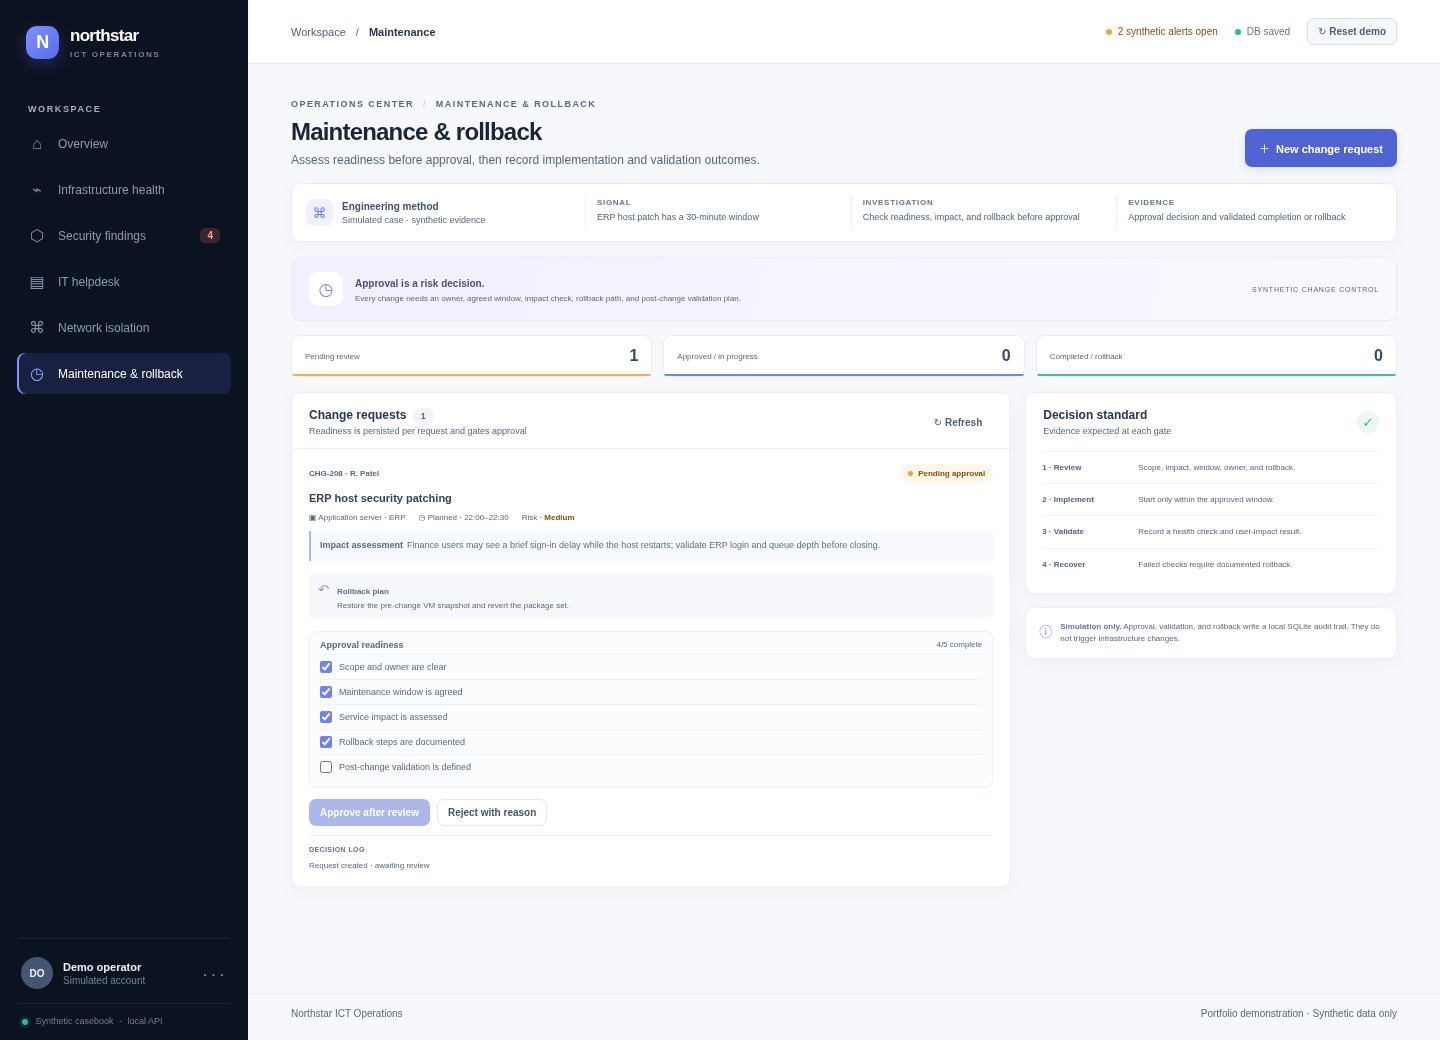
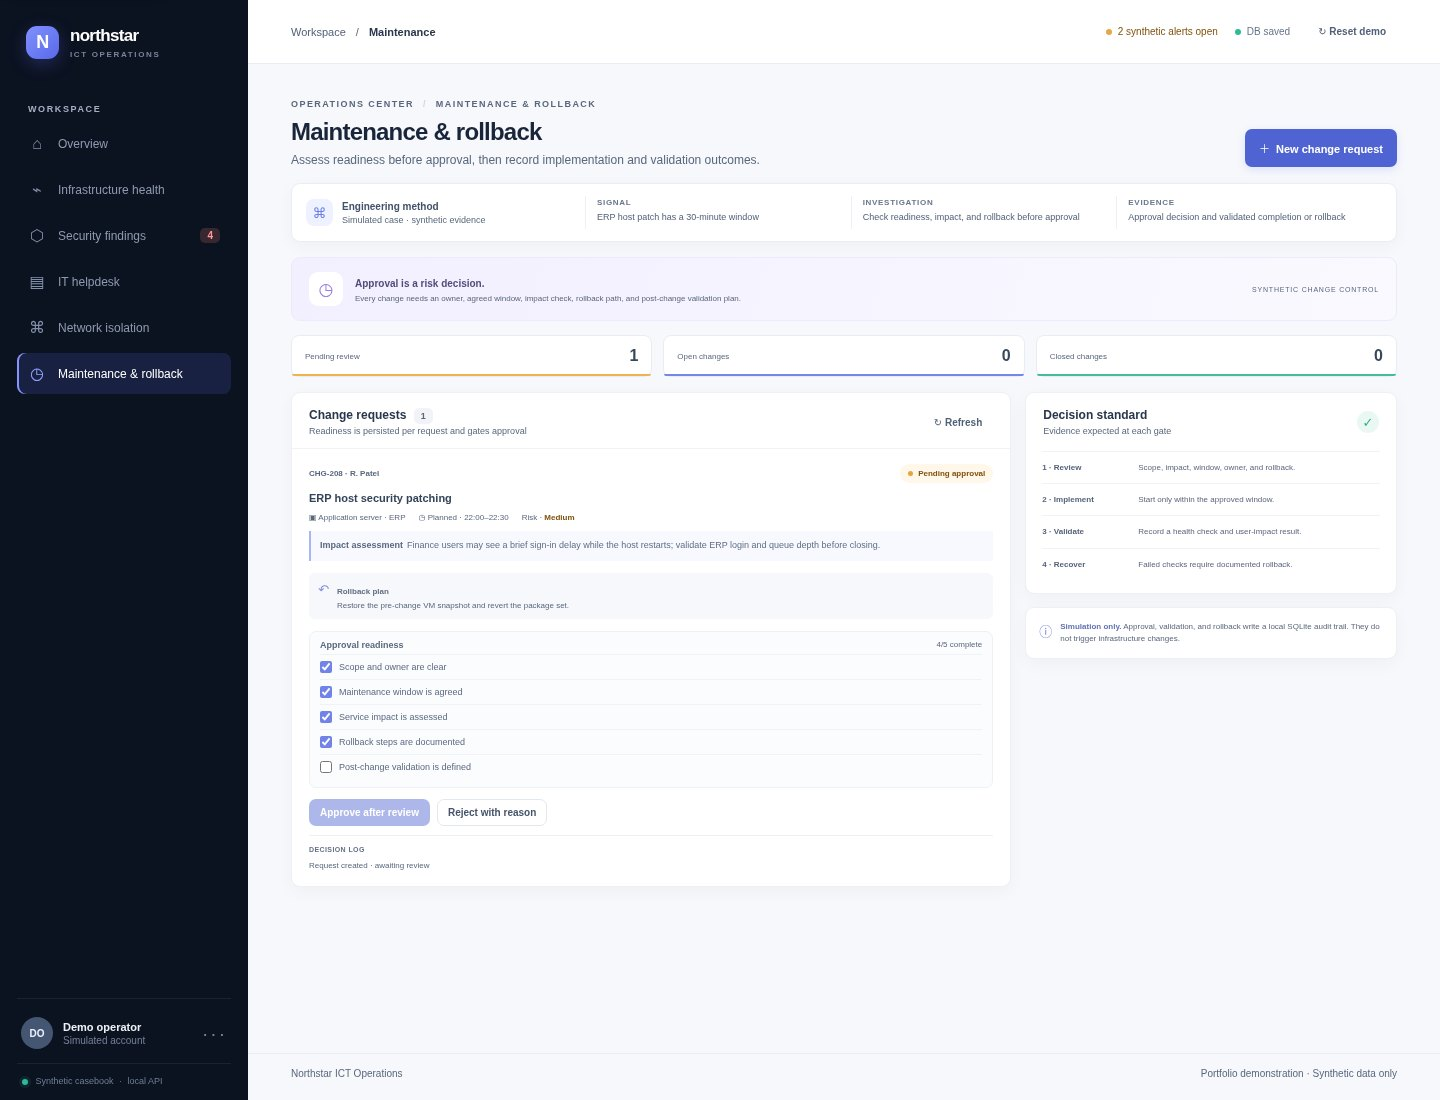
fix: distinguish open and closed maintenance changes

diff --git a/src/app.js b/src/app.js
@@ -350,7 +350,7 @@ function renderMaintenance() {
   return `${title("Maintenance & rollback", "Assess readiness before approval, then record implementation and validation outcomes.", `<button class="button button-primary" data-action="new-change">＋ &nbsp;New change request</button>`)}
   ${engineeringBrief("maintenance")}
   <div class="change-banner"><div class="change-banner-icon">◷</div><div><strong>Approval is a risk decision.</strong><p>Every change needs an owner, agreed window, impact check, rollback path, and post-change validation plan.</p></div><span>SYNTHETIC CHANGE CONTROL</span></div>
-  <div class="change-stats"><div><span>Pending review</span><strong>${state.maintenance.filter(m => m.status === "Pending approval").length}</strong><i class="stat-pending"></i></div><div><span>Approved / in progress</span><strong>${state.maintenance.filter(m => ["Approved", "In progress"].includes(m.status)).length}</strong><i class="stat-approved"></i></div><div><span>Completed / recovery</span><strong>${state.maintenance.filter(m => ["Completed", "Recovery verification required", "Rolled back"].includes(m.status)).length}</strong><i class="stat-complete"></i></div></div>
+  <div class="change-stats"><div><span>Pending review</span><strong>${state.maintenance.filter(m => m.status === "Pending approval").length}</strong><i class="stat-pending"></i></div><div><span>Open changes</span><strong>${state.maintenance.filter(m => ["Approved", "In progress", "Rollback required", "Recovery verification required"].includes(m.status)).length}</strong><i class="stat-approved"></i></div><div><span>Closed changes</span><strong>${state.maintenance.filter(m => ["Completed", "Rejected", "Rolled back"].includes(m.status)).length}</strong><i class="stat-complete"></i></div></div>
   <div class="change-columns"><div>${card(`<div class="table-header"><div><h3>Change requests <span class="count-pill">${state.maintenance.length}</span></h3><p>Readiness is persisted per request and gates approval</p></div><button class="button button-quiet button-small" data-action="maintenance-refresh">↻ Refresh</button></div><div class="change-list">${state.maintenance.map(change => {
     const checks = readinessChecks.map(([key, label]) => `<label class="readiness-check"><input type="checkbox" data-action="change-check" data-id="${change.id}" data-key="${key}" ${change.readiness?.[key] ? "checked" : ""} ${change.status !== "Pending approval" ? "disabled" : ""}><span>${esc(label)}</span></label>`).join("");
     const peerReview = change.risk === "High" ? `<label class="readiness-check risk-check"><input type="checkbox" data-action="change-check" data-id="${change.id}" data-key="peerReview" ${change.readiness?.peerReview ? "checked" : ""} ${change.status !== "Pending approval" ? "disabled" : ""}><span>Independent peer review recorded (high-risk gate)</span></label>` : "";

diff --git a/docs/verification.md b/docs/verification.md
@@ -118,6 +118,7 @@ The browser checks support the specific UI and workflow behaviors listed above. 
 - At 320 × 720, Chromium completed that legacy recovery with synthetic evidence. Submitting before checking the baseline confirmation left the dialog open; checking it recorded the separate recovery audit and closed the change. This uncovered a three-pixel overflow in the narrow sync-conflict toolbar; reducing its compact gap removed the overflow. The dialog stayed within the viewport and there were no page errors.
 - On the finished source, Chromium rechecked all six routes at 10 widths from 320 to 2560 pixels (60 combinations). Every page had one main heading, no horizontal overflow, and no unnamed visible controls. There were no page errors, failed requests, or external requests; `/api/health`, `/api/state`, and the one-row SQLite history agreed at revision 1.
 - The recovery dialog also passed a focused 320 × 720 keyboard check: its accessible name and description were present, the background was inert, Tab wrapped from submit to close and Shift+Tab returned to submit, Escape dismissed the dialog, and focus returned to its trigger.
+- Maintenance summary counts now separate pending review, open changes (including rollback and recovery verification), and closed outcomes. Chromium checked the counts for pending, recovery-pending, and verified-rollback states; the refreshed [maintenance overview](screenshots/maintenance-desktop.jpg) and [recovery workflow](screenshots/maintenance-rollback.jpg) match the finished interface.
 - An isolated recovered maintenance casebook was written through the loopback API at revision 1. Revision 2 was restored from revision 1 as new head 3; a stale revision-2 write returned HTTP 409, and health/state/history agreed at revision 3 with three rows. The revision-3 backup retained `Rolled back` plus its separate recovery evidence, passed `PRAGMA integrity_check`, and had POSIX mode `0600`.
 - Fixed rendered text contrast for supporting labels, network diagnostic outcomes, action links, and workflow statuses. Corrected CSS status classes to match the classes rendered by the application and hid decorative glyphs from assistive technology. Scoped repeated health, security, and change-control action names to their asset or record IDs for screen-reader button navigation. A targeted browser contrast sample found no sampled text below 4.5:1; the automated color-pair test covers the mapped selectors. This is not a formal WCAG audit.
 - Re-ran `npm test`: all 22 Node model/accessibility tests and 66 Python API/preview tests passed. `npm run check` passed for `src/app.js` and `src/model.js`; `git diff --check` passed.
